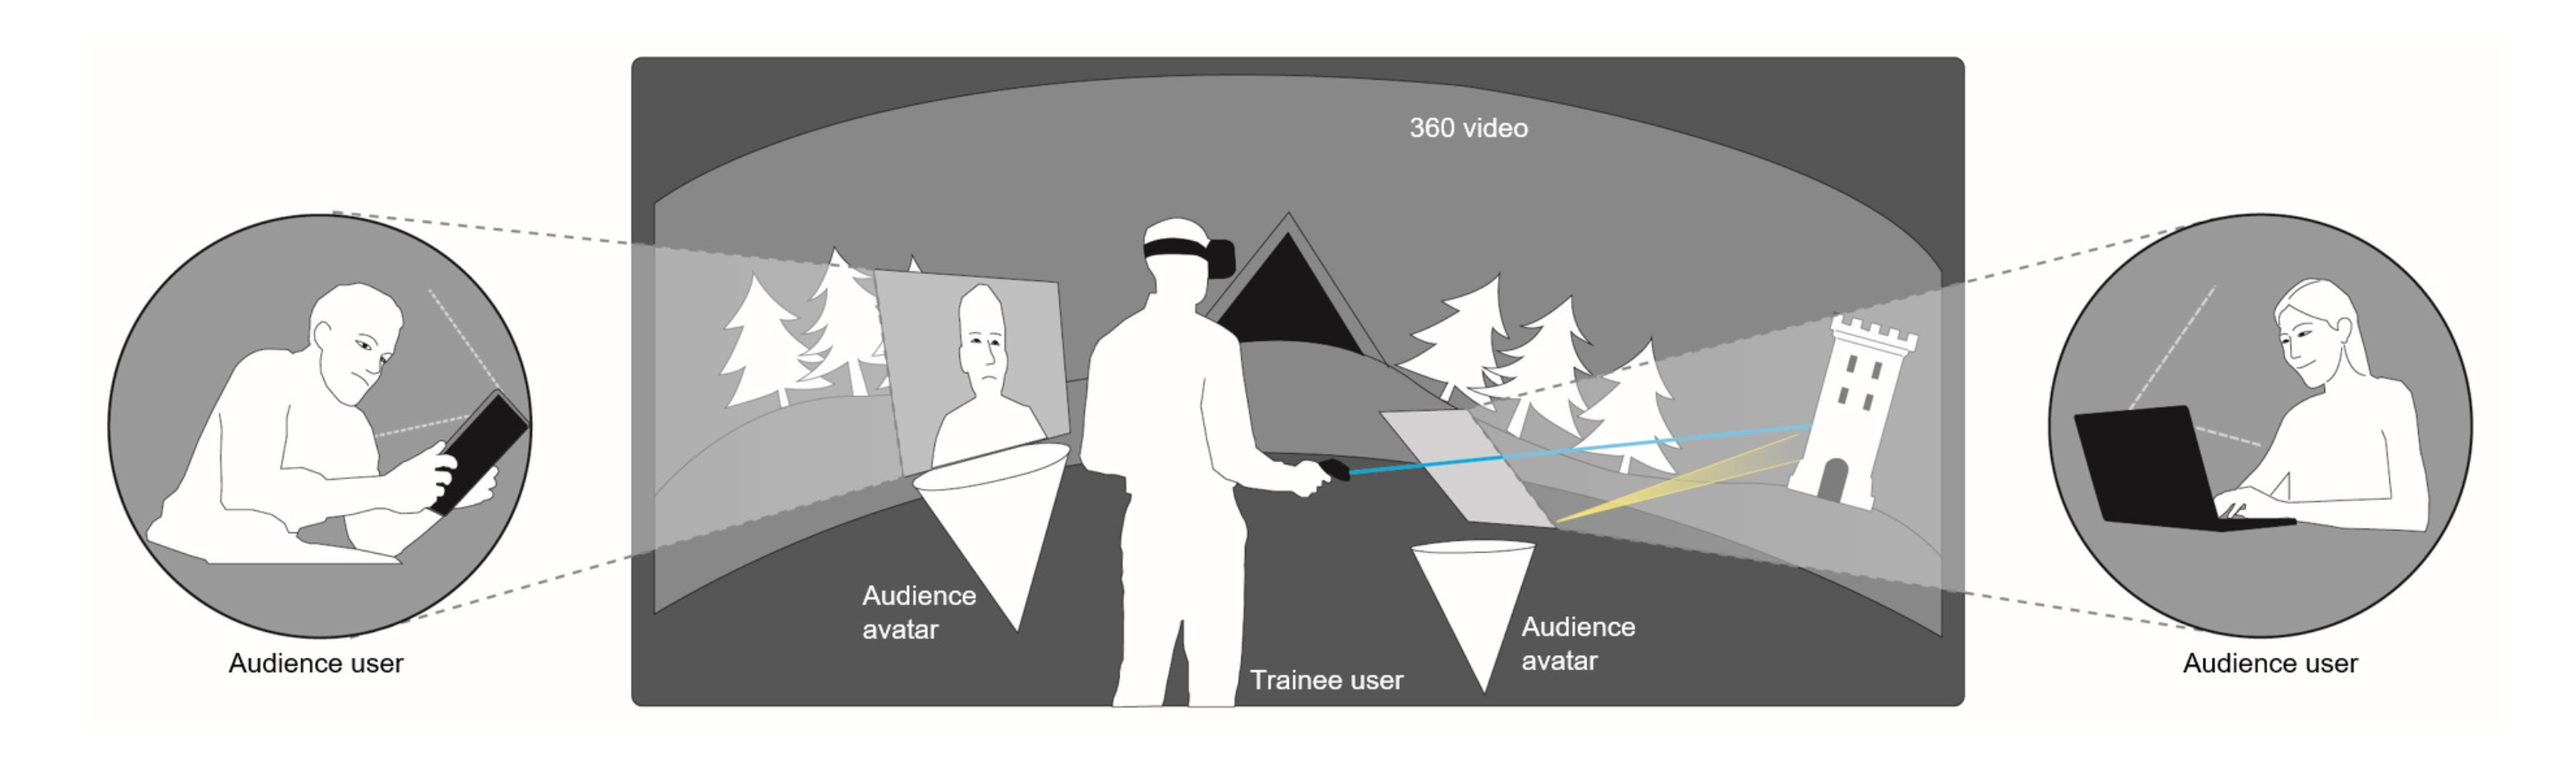
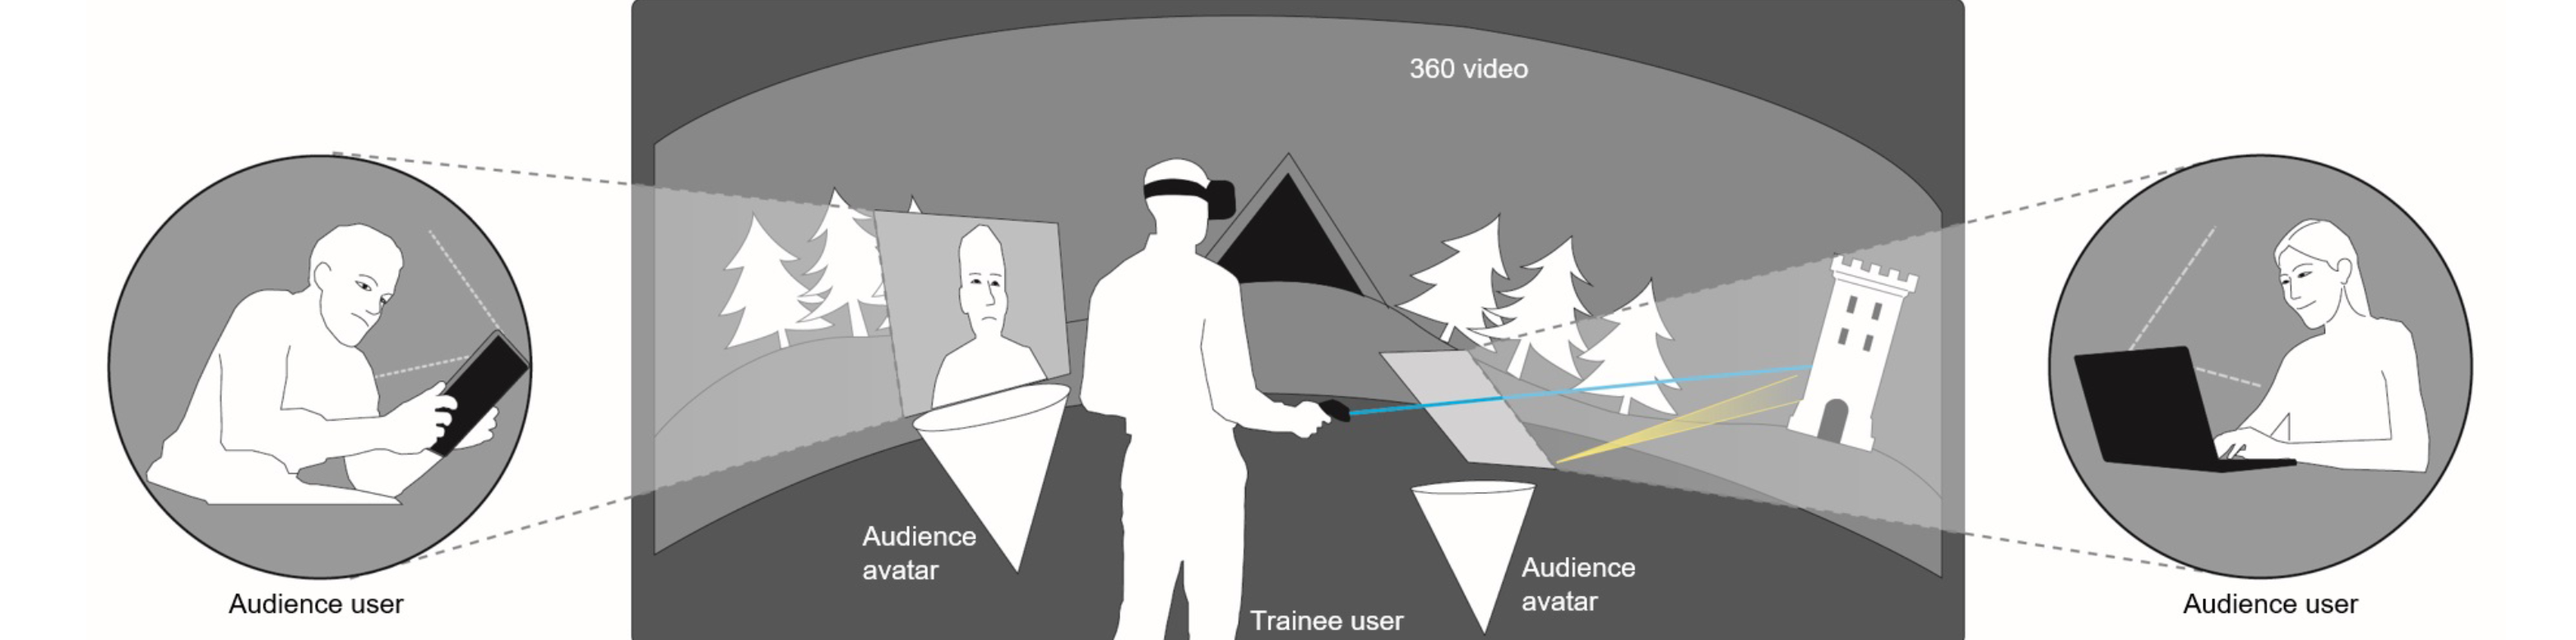
update

diff --git a/src/app/page.js b/src/app/page.js
@@ -11,13 +11,14 @@ import PublicationComponent from "@/components/publication-component";
 export default function Home() {
   return <div className="home-page">
     <section className="home-intro" aria-labelledby="intro-title">
-      <div className="intro-copy"><p className="eyebrow">HCI · Extended Reality · Intelligent Interfaces</p>
+      <div className="intro-copy">
+        {/* <p className="eyebrow">HCI · Extended Reality · Intelligent Interfaces</p> */}
         <h1 id="intro-title">Hi, I’m <span>Nam.</span></h1>
         <p className="intro-affiliation">{profile.role} at {profile.institution}</p>
         <p className="intro-bio">{profile.bio}</p>
         <div className="intro-links"><Link className="text-link" href="/about">More about me <Icon name="arrow-right" size={16} /></Link><span className="link-divider" aria-hidden="true" />{profile.links.map(link => <a key={link.label} className="text-link muted-link" href={link.href} target="_blank" rel="noreferrer">{link.label} <Icon name="arrow-up-right" size={14} /></a>)}{profile.cv && <a className="text-link muted-link" href={profile.cv} target="_blank" rel="noreferrer">CV <Icon name="file" size={14} /></a>}</div>
       </div>
-      <div className="intro-profile"><SafeImage src={profile.avatar} fallback="/images/profile-monogram.svg" alt={profile.avatar.endsWith("profile-monogram.svg") ? "Nam’s initials" : "Duy-Nam Ly"} className="profile-avatar" width={200} height={200} eager /><p>{profile.name}</p><span>Research. Build. Explore.</span></div>
+      <div className="intro-profile"><SafeImage src={profile.avatar} fallback="/images/profile-monogram.svg" alt={profile.avatar.endsWith("profile-monogram.svg") ? "Nam’s initials" : "Duy-Nam Ly"} className="profile-avatar" width={200} height={200} eager /><p>{profile.name}</p></div>
     </section>
     <section className="home-section" aria-labelledby="recent-updates-title"><div className="section-heading"><h2 id="recent-updates-title">Recent updates</h2><Link className="text-link" href="/updates">All updates <Icon name="arrow-right" size={16} /></Link></div><UpdateList items={newestFirst(updates, "date").slice(0, 3)} compact /></section>
     <section className="home-section" aria-labelledby="recent-publications-title"><div className="section-heading"><h2 id="recent-publications-title">Recent publications</h2><Link className="text-link" href="/publications">Full publications <Icon name="arrow-right" size={16} /></Link></div><div className="recent-publications">{newestFirst(publications).slice(0, 3).map(publication => <PublicationComponent key={publication.Link || publication.Title} publication={publication} compact />)}</div></section>

diff --git a/src/data/updates.js b/src/data/updates.js
@@ -3,8 +3,8 @@
 // Categories are free text, e.g. Publication, Career, Talk, Award, or Personal.
 // href is optional and may point to an internal page or an external URL.
 export const updates = [
-  { id: "end-internship", date: "2026-09", category: "Internship Completion", title: "Completing Internship with 4 CHI submissions", text: "I completed my internship and contributed 4 CHI submissions for IDG. Looking forward to hearing good news in November." },
-  { id: "visiting-at-idg", date: "2026-01", category: "Internship", title: "Visiting Student at IDG (SUSTech)", text: "I joined the IDG lab at SUSTech, China as a visiting student to conduct research under the supervision of Prof. Seungwoo Je." },
+  { id: "end-internship", date: "2026-09", category: "Internship Completion", title: "Completing Internship with 4 CHI submissions", text: "I completed my internship and contributed 4 CHI submissions for IDG. Looking forward to hearing good news." },
+  { id: "visiting-at-idg", date: "2026-01", category: "Internship", title: "Visiting Student at IDG (SUSTech)", text: "I joined the IDG lab at SUSTech, China as a visiting student to conduct XR research under the supervision of Prof. Seungwoo Je." },
   { id: "vr-tour-training-2025", date: "2025-08", category: "Paper Acceptance", title: "Full Paper of 360TourGuiding is published in Springer Virtual Reality (Q1)", text: "Our work on the development and evaluation of a collaborative VR training system is published in Springer VR (Q1 Journal).", href: "/projects/360tourguiding" },
   { id: "chi-2024", date: "2024-05", category: "Paper Acceptance", title: "Three LBW Posters at CHI 2024", text: "ARtVista, iCONTRA, and XRPublicSpectator are published in CHI Extended Abstracts.", href: "/publications#year-2024" },
   { id: "hybridmingler-2023", date: "2023-04", category: "Paper Acceptance", title: "HybridMingler at CHI 2023", text: "Our work on mixed-reality support for mingling at hybrid conferences appears in CHI Extended Abstracts.", href: "/projects/hybridmingler" },

diff --git a/src/data/profile.js b/src/data/profile.js
@@ -6,7 +6,7 @@ export const profile = {
   avatar: "/images/ldnam-avatar.jpg",
   // Add the CV file at public/nam-cv.pdf.
   cv: "/nam-cv.pdf",
-  bio: "I am a researcher in Human–Computer Interaction, exploring how computers can help people. I envision a future in which XR technologies and Robots become increasingly integrated into our daily lives to support a wide range of activities. Driven by this vision, I am particularly interested in creating XR interfaces that enable people to interact with computers, robots, and AI-powered systems for everyday use. Feel free to explore my research, projects, and publications. I am currently seeking a PhD position, so please get in touch if my skills and work align with your research direction.",
+  bio: "I am a researcher in Human–Computer Interaction, exploring how computers can help people. I envision a future in which XR technologies and Robots become increasingly integrated into our daily lives to support a wide range of activities. Driven by this vision, I am particularly interested in creating XR interfaces that enable people to interact with computers, AI-powered systems and robots for everyday use. Feel free to explore my research, projects, and publications.",
   links: [
     { label: "Google Scholar", href: "https://scholar.google.com.vn/citations?user=fXfeDqcAAAAJ&hl=en" },
     { label: "LinkedIn", href: "https://www.linkedin.com/in/duy-nam-ly-623520214" },

diff --git a/src/app/publications/page.jsx b/src/app/publications/page.jsx
@@ -8,7 +8,7 @@ export const metadata = { title: "Full Publications" };
 export default function PublicationsPage() {
   const grouped = groupByYear(publications);
   return <>
-    <PageHeading eyebrow="" title="Publications" description="Full peer-reviewed articles and conference papers."><a href={profile.links[0].href} className="button" target="_blank" rel="noreferrer">Google Scholar <Icon name="arrow-up-right" /></a></PageHeading>
+    <PageHeading eyebrow="" title="Publications" description=""><a href={profile.links[0].href} className="button" target="_blank" rel="noreferrer">Google Scholar <Icon name="arrow-up-right" /></a></PageHeading>
     <div className="archive-toolbar"><p> <span>· * Equal contribution</span></p><nav aria-label="Publication years">{grouped.map(({ year }) => <a key={year} href={`#year-${year}`}>{year}</a>)}</nav></div>
     <div className="publication-archive">{grouped.map(({ year, entries }) => <section className="archive-year" key={year} aria-labelledby={`year-${year}`}><h2 className="year-label" id={`year-${year}`}>{year}</h2><div className="publication-list">{entries.map(publication => <PublicationComponent key={publication.Link || publication.Title} publication={publication} />)}</div></section>)}</div>
   </>;

diff --git a/src/components/publication-component.jsx b/src/components/publication-component.jsx
@@ -40,21 +40,11 @@ export default function PublicationComponent({
       )}
 
       <div className="publication-content">
-        <div className="publication-meta">
-          <span className="venue-badge">
-            {publication.Venue || publication.Year}
-          </span>
 
-          {!compact && (
-            <span className="publication-year">
-              {publication.Year}
-            </span>
-          )}
-        </div>
 
         <h3>
           {publication.Link &&
-          publication.Link !== "Under Review" ? (
+            publication.Link !== "Under Review" ? (
             <a
               href={publication.Link}
               target="_blank"
@@ -128,7 +118,20 @@ export default function PublicationComponent({
           {!compact && publication.BibTex && (
             <Bibtex value={publication.BibTex} />
           )}
+          
+          <div>
+            <span className="venue-badge">
+              {publication.Venue || publication.Year}
+            </span>
+
+            {!compact && (
+              <span className="publication-year">
+
+              </span>
+            )}
+          </div>
         </div>
+
       </div>
     </article>
   );

diff --git a/src/app/projects/page.jsx b/src/app/projects/page.jsx
@@ -3,5 +3,5 @@ import PageHeading from "@/components/page-heading";
 import ProjectGrid from "@/components/project-grid";
 export const metadata = { title: "Projects" };
 export default function ProjectsPage() {
-  return <><PageHeading eyebrow="" title="Selected Projects" description="My work lies at the intersection of XR, AI, and HRI." /><Suspense fallback={<p className="loading-state">Loading projects…</p>}><ProjectGrid /></Suspense></>;
+  return <><PageHeading eyebrow="" title="Selected Projects" description="" /><Suspense fallback={<p className="loading-state">Loading projects…</p>}><ProjectGrid /></Suspense></>;
 }

diff --git a/src/app/updates/page.jsx b/src/app/updates/page.jsx
@@ -5,7 +5,7 @@ import { groupByYear } from "@/lib/content";
 export const metadata = { title: "Updates" };
 export default function UpdatesPage() {
   return <>
-    <PageHeading eyebrow="" title="Updates" description="Achievements and news from my research and beyond." />
+    <PageHeading eyebrow="" title="Updates" description="" />
     <div className="archive-layout">{groupByYear(updates, "date").map(({ year, entries }) => <section className="archive-year" key={year} aria-labelledby={`year-${year}`}><h2 className="year-label" id={`year-${year}`}>{year}</h2><UpdateList items={entries} /></section>)}</div>
   </>;
 }

diff --git a/src/data/publications.js b/src/data/publications.js
@@ -47,7 +47,7 @@ export const publications = [
         "Number": "",
         "Pages": "14244--14249",
         "Year": "2025",
-        "Venue": "ACM MM",
+        "Venue": "ACM MM (Workshop)",
         "Link": "https://dl.acm.org/doi/abs/10.1145/3746027.3762067",
         "Publisher": "",
         "BibTex": `@inproceedings{tran2025event,

diff --git a/src/app/globals.css b/src/app/globals.css
@@ -1030,3 +1030,4 @@ a.tag:hover { color: var(--accent); background: var(--surface); border-color: va
   .blog-detail-cover img { max-height: 240px; }
   .blog-content blockquote { font-size: 16px; }
 }
+
